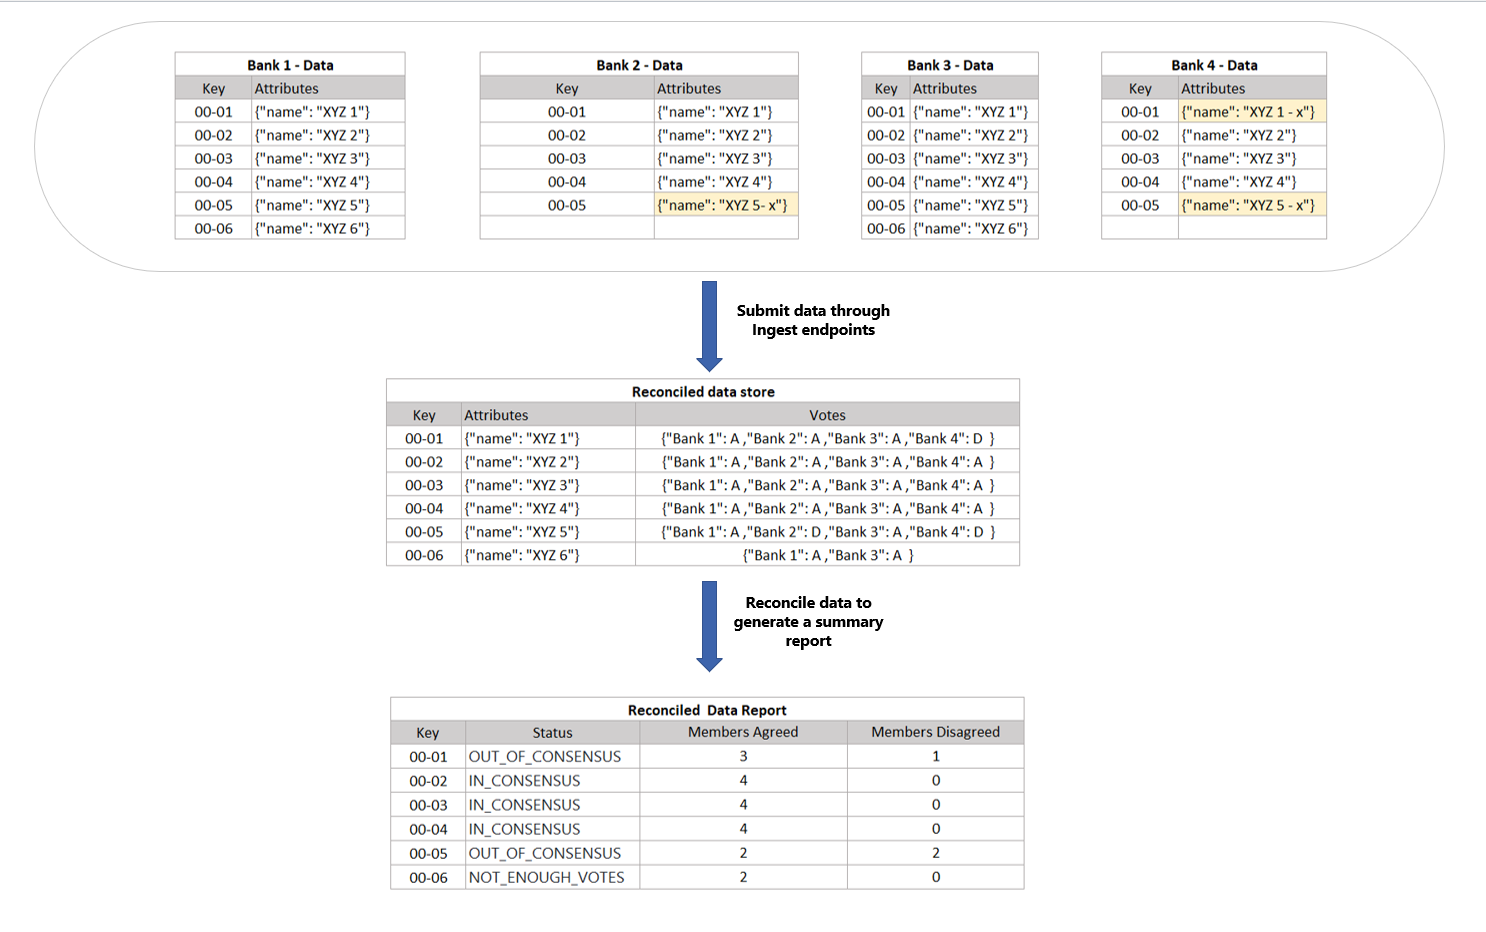
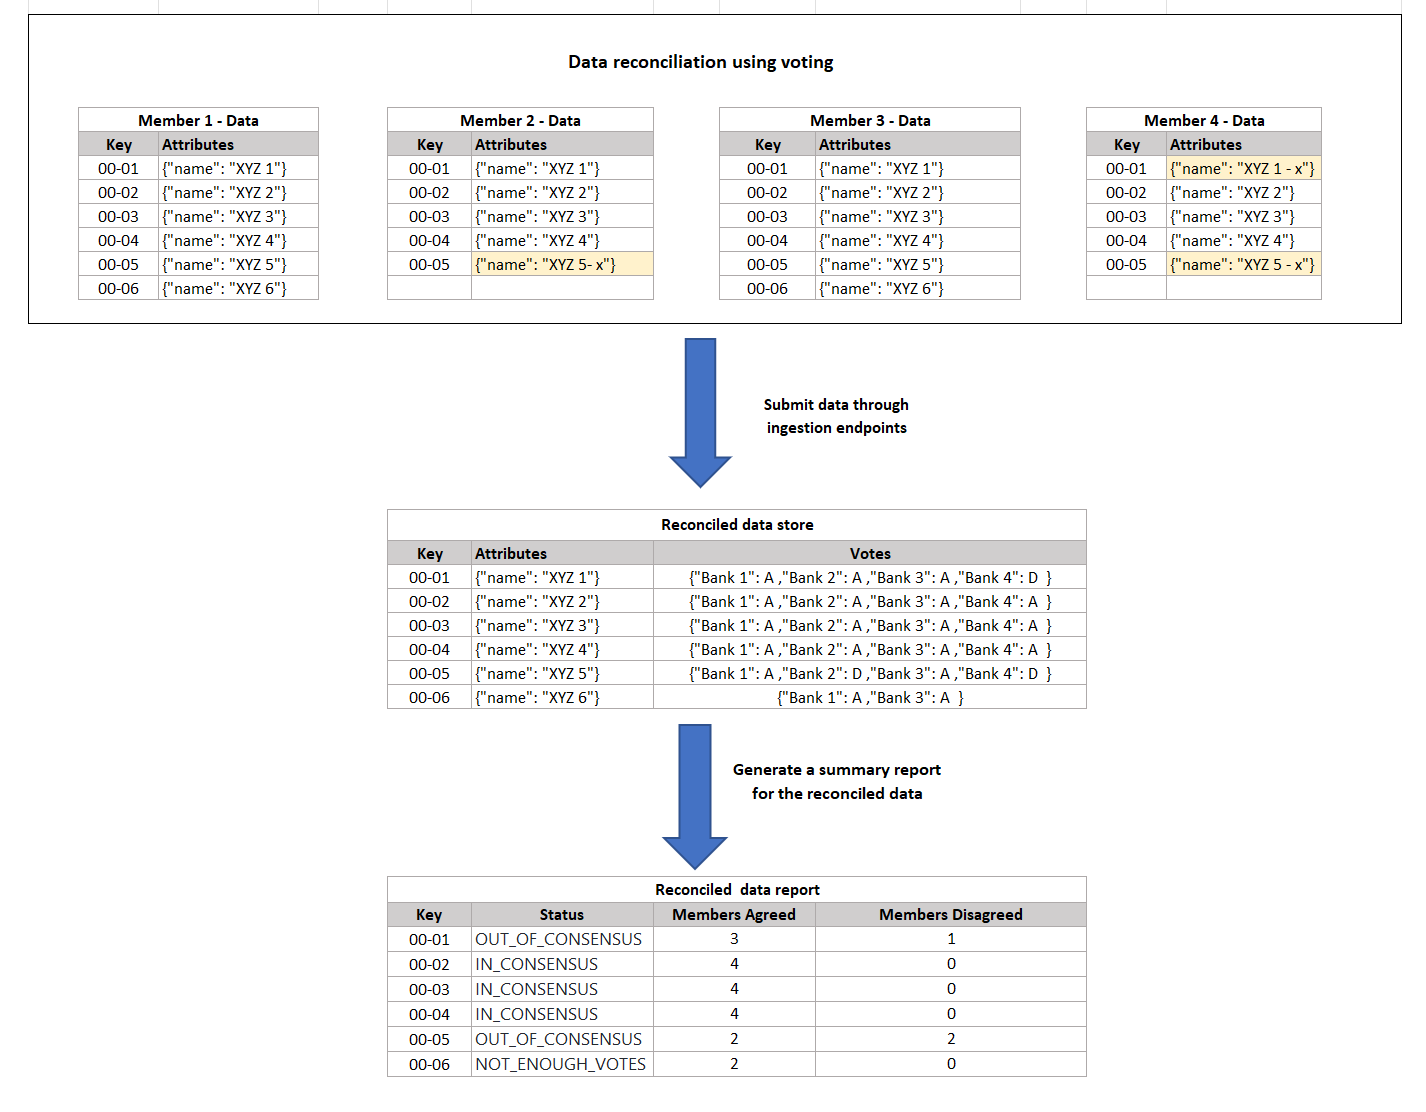
resolve review comments

Changed region(s): [[0.0309, 0.0, 0.9874, 0.9646]]

diff --git a/data-reconciliation-app/docs/data-reconciliation.md b/data-reconciliation-app/docs/data-reconciliation.md
@@ -1,10 +1,8 @@
 # What is data reconciliation means in the context of the project?
 
-## _Reconciliation in finance_
+## _Reconciliation Overview_
 
-Reconciliation in finance is the process of comparing different business entities, accounts, amounts, data points, etc. to find out if they are matching or to explain why there are differences between them.
-
-Data Reconciliation is important because it will address a range of issues such as:
+Generally speaking, data reconciliation is used describe a verification phase where the target data is compared against original source data to address a range of issues:
 
 - Missing records
 - Missing values
@@ -13,13 +11,15 @@ Data Reconciliation is important because it will address a range of issues such 
 - Badly formatted values
 - Broken relationships across tables or systems
 
+However, in many scenarios, there may not exist a single source of truth to compare your target data against. Rather, institutions can come together in a network to consolidate, compare and identify issues with their own data. One of the benefits of a CCF network is that these institutions can do so confidently, without actually sharing their data with one another.
+
+Some potential use cases may involve:
+
+- In finance, a number of financial institutions coming together to predict the price of a derivative.
+- In finance, a number of financial institutions coming together to reconcile reference data or ticker symbols.
+- In healthcare, a number of hospitals coming together to reconcile hospital records for patients.
+
 ![reconciliation diagram](data-reconciliation.png)
-
-## Use case
-
-In the last few years, regulatory legislation has enforced a unique Legal Entity Identifier (LEI) which allows all financial industry participants to standardize how they reference counter-parties and clients. This law has been the impetus for all financial industry participants to clean up their reference data and adopt this new identification system. It has been inefficient and expensive for industry participants to maintain reference data. These datasets are critical for trade processing, risk management and regulatory reporting and therefore a high degree of accuracy is required. Yet the only way to have certainty regarding their accuracy is constant review and refresh against authoritative sources of all data, an enormous and costly task.
-
-Rather than collaborating with data providers and hiring human resources to keep these LEIs in sync, financial industry participants could leverage confidential compute platforms to create a consortium network and reconciliation service to clean up all their reference data. This would improve data quality in a compliant and cost-effective way through industry collaboration.
 
 ## Proposed solution
 
@@ -64,6 +64,6 @@ The reconciliation application will consist of three main services.
 
 ## Resources
 
-- [https://www.guru99.com/what-is-data-reconciliation.html](https://www.guru99.com/what-is-data-reconciliation.html)
-
-- [https://managedlei.com/blog/legal-entity-identification-data-mapping](https://managedlei.com/blog/legal-entity-identification-data-mapping)
+- [Data reconciliation data schema](https://github.com/microsoft/ccf-app-samples/blob/main/data-reconciliation-app/docs/data-schema-data-flow.md)
+- [Data validation and reconciliation](https://en.wikipedia.org/wiki/Data_validation_and_reconciliation)
+- [What is data reconciliation?](https://www.guru99.com/what-is-data-reconciliation.html)
